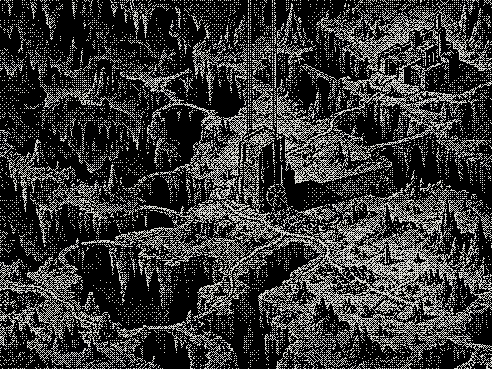
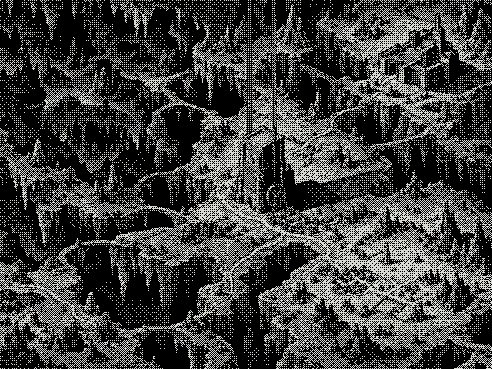
feat: preserve map contrast and mark destinations

diff --git a/tests/test_082_floormap.py b/tests/test_082_floormap.py
@@ -1,5 +1,6 @@
 """085: standard floormap — the camp menu drawn as the floor's map."""
 import pytest
+from PIL import Image
 
 from plugin_linear_ascent import render
 from plugin_linear_ascent.content import schema
@@ -118,6 +119,29 @@ def test_all_ten_floors_ignore_legacy_flag(floor, legacy_flag):
         if o.id in markers:
             assert f'aria-describedby="map-tip-{o.id}"' in html
             assert f'option {i}' in html
+
+
+@pytest.mark.parametrize("floor", range(1, 11))
+def test_every_map_destination_has_one_exact_location_dot(floor):
+    p, _ = _at_camp(f"u-dot-{floor}")
+    p.update(floor=floor, location="gate_town", level=99, unlocked_floor=11)
+    s = core.current_scene(p)
+    html = render.render_scene_fragment(s)
+    assert html.count('class="mkdot" aria-hidden="true"') == len(s.map["markers"])
+    assert '.mk[data-anchor="left"] .mkdot{left:0;}' in render.SCENE_CSS
+    assert '.mk[data-anchor="right"] .mkdot{left:100%;}' in render.SCENE_CSS
+    assert f"background:{render.GOLD}" in render.SCENE_CSS
+
+
+@pytest.mark.parametrize("floor", range(1, 11))
+def test_all_map_assets_keep_the_native_two_colour_contract(floor):
+    path = render._MAPS + f"/map_{floor:03d}_492x369.png"
+    with Image.open(path) as image:
+        assert image.size == (492, 369)
+        assert image.mode == "RGBA"
+        assert {colour for _, colour in image.getcolors()} == {
+            (0, 0, 0, 255), (217, 217, 211, 255),
+        }
 
 
 def test_floor11_keeps_the_menu():

diff --git a/plugin_linear_ascent/render.py b/plugin_linear_ascent/render.py
@@ -225,6 +225,7 @@ def _map_html(scene: Scene, mp: dict, art: tuple[str, int, int]) -> str:
             f'<button type="button" class="mk" data-opt="{_e(oid)}" '
             f'data-anchor="{anchor}" aria-label="{_e(name)}"{description} '
             f'style="left:{x:g}%;top:var(--map-y,{y:g}%)">'
+            f'<span class="mkdot" aria-hidden="true"></span>'
             f'<span class="mknum">[{i}]</span> '
             f'{_e(str(m.get("label") or ""))}{cost}{tip}</button>')
     return (f'<div class="mapwrap later"><img src="{url}" '
@@ -3457,6 +3458,12 @@ SCENE_CSS = f"""
 .mk .mknum{{color:{GOLD};}}
 .mk[data-anchor="left"]{{transform:translate(0,-100%);}}
 .mk[data-anchor="right"]{{transform:translate(-100%,-100%);}}
+.mkdot{{position:absolute;left:50%;bottom:-2.5px;width:5px;height:5px;
+ transform:translateX(-50%);background:{GOLD};pointer-events:none;
+ box-shadow:-2px 0 0 {INK},2px 0 0 {INK},0 -2px 0 {INK},0 2px 0 {INK},
+ -1px -1px 0 {INK},1px -1px 0 {INK},-1px 1px 0 {INK},1px 1px 0 {INK};}}
+.mk[data-anchor="left"] .mkdot{{left:0;}}
+.mk[data-anchor="right"] .mkdot{{left:100%;}}
 .mk:hover .mknum,.mk:focus-visible .mknum{{color:{INK};}}
 .mk:hover,.mk:focus-visible{{background:{GOLD};color:{INK};
  outline:none;z-index:10;}}

diff --git a/tests/088-all-map-contrast-markers/01-all-floors-map-contrast-and-dots.md b/tests/088-all-map-contrast-markers/01-all-floors-map-contrast-and-dots.md
@@ -1,0 +1,37 @@
+# All floors retain regional contrast and point to exact destinations
+
+## Preconditions
+
+- QA Luna is restarted with the implementation plugin checkout.
+- Local worldd is healthy and the existing map QA player is enrolled.
+- The player is unlocked through floor 10 and can return to each gate town.
+
+## Scenario
+
+1. Open the existing QA Luna conversation in Chrome and ask `show me floor 3 map`.
+2. Inspect the rendered map, then hover the center and edge destination labels.
+3. Send a bare displayed option number and confirm the destination changes through `ascent_choose`.
+4. Return to the gate town and repeat visual inspection for floors 4, 7, and 10.
+5. Resize Chrome to a phone-width pane and recheck one map with left-, center-, and right-anchored labels.
+6. Reload the page and ask `where am I?` to confirm the same game state renders again.
+
+## Expected behavior
+
+- Dark terrain and water remain visibly distinct from lit roads, stone, snow, and open ground.
+- Every destination chip has a small stepped yellow point with a black outline; its center indicates the linked landscape position.
+- The point remains visible on both bright and dark regions and does not cover the label text.
+- Tooltips appear immediately on hover/focus, digit navigation chooses the displayed destination, and all chips remain inside the phone-width map.
+- Luna uses game tools and stays in-world.
+
+## Fail conditions
+
+- Any map is missing, flat enough that broad terrain regions merge, or is blurred instead of pixelated.
+- A chip has no point, has a smooth antialiased dot, or points to a different coordinate after edge anchoring.
+- A tooltip is delayed or clipped, a bare number is ignored, or a map appears only through Labs.
+- Luna describes a move that the engine did not make.
+
+## Verify
+
+- Capture and read screenshots for floors 3, 4, 7, and 10 plus the phone-width layout.
+- Confirm each served asset URL carries the new plugin version and its response hash matches the packaged PNG.
+- Read the player scene after digit navigation and confirm floor/location/energy agree with the visible result.
